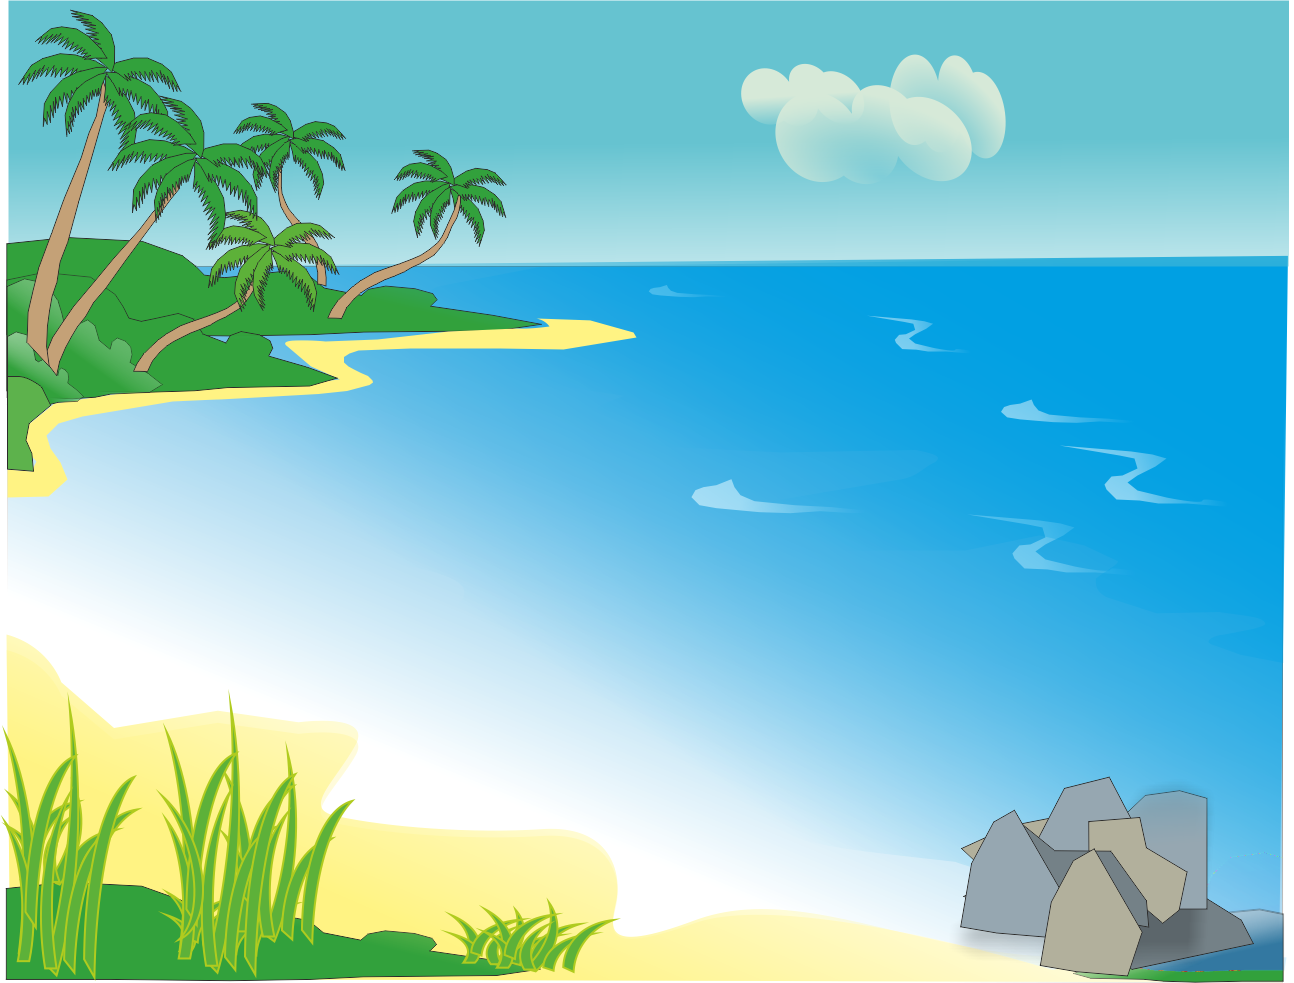
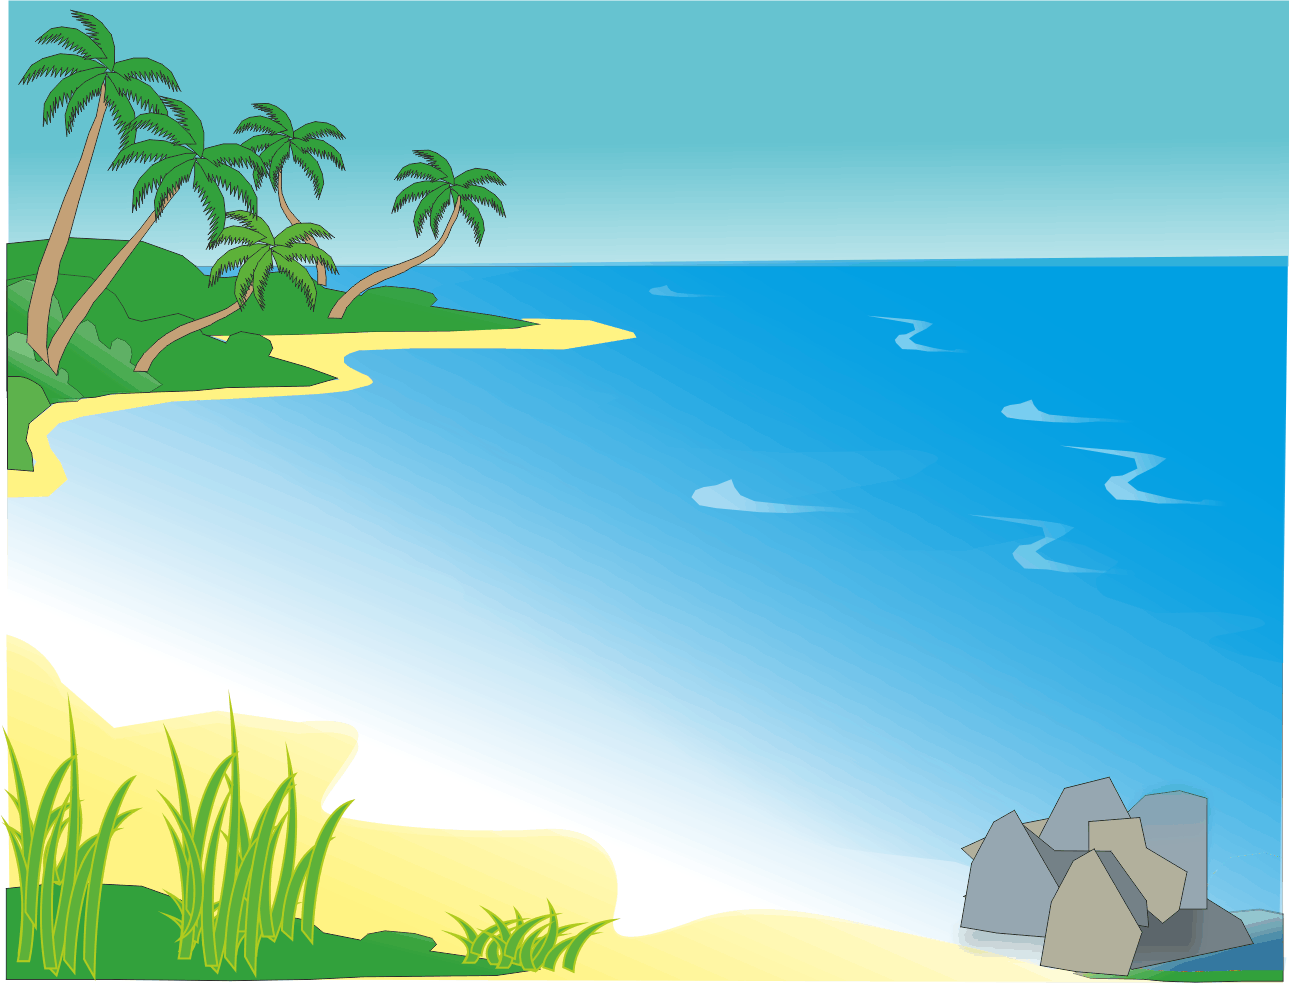
v14

Changed region(s): [[0.5564, 0.061, 0.8037, 0.1831], [0.1855, 0.3357, 0.34, 0.3662], [0.4019, 0.3052, 0.4328, 0.3357]]

diff --git a/js/ship.js b/js/ship.js
@@ -1,17 +1,26 @@
 var shipArr=[];
 
 $(document).ready(function(){
-    
+    for (var i = 0; i < 100; i++) {          
+      $("#shipanimatebig").animate({left: '905px', top:'225px', opacity: 0.95}, 1000, function(){});
+      $("#shipanimatebig").animate({left: '900px', top:'230px', opacity: 0.95}, 1000, function(){});
+      $("#shipanimatemiddle").animate({left: '1253px', top:'221px', opacity: 0.85}, 1000, function(){});
+      $("#shipanimatemiddle").animate({left: '1250px', top:'220px', opacity: 0.85}, 1000, function(){});
+      $("#shipanimatemin").animate({left: '1201px', top:'201px', opacity: 0.75}, 1000, function(){});
+      $("#shipanimatemin").animate({left: '1200px', top:'200px', opacity: 0.75}, 1000, function(){});
+    }
     var h2=$("h2");
     h2.animate({left: '100px'}, "slow");
     h2.animate({fontSize: '2em'}, "slow");
     var h1=$("h1");
     h1.animate({left: '100px'}, "slow");
     h1.animate({fontSize: '3em'}, "slow");
-    $("#start").click(function(){
-     
-        $("#first").hide(1000);//скриване на всичко от div с id=first
+    $("#start").click(function(){        
+        document.getElementById("myTable").style.cursor = "crosshair";
+        $("#cloud").fadeIn(3000);
+        $("#cloud").animate({left: '+850px'}, 100000, function(){});
 
+        $("#first").hide(1000);//скриване на всичко от div с id=first
         $("#second").fadeIn(3000);
         $("#myTable").fadeIn(3000);
         $("td").addClass("water");//на всички <td> се присвоява клас water

diff --git a/css/bship.css b/css/bship.css
@@ -13,6 +13,10 @@ p, div, button, h1, h2, h3, h4{
 p, div, button, h4{
   font-size: 2rem; 
 }
+h1,h2{
+  position: sticky;
+  z-index: 70;
+}
 
 h2{
   padding-top: 15px; 
@@ -65,6 +69,7 @@ td{
 #first{  
   /*background: blue;*/
   background: url('../img/gameship11.png') no-repeat center center;
+  z-index: -10;
 }
 #second{  
   /*background: blue;*/
@@ -80,6 +85,8 @@ td{
   padding: 35px;
   margin-left: 555px;
   margin-top: 50px;
+  position: sticky;
+  z-index: 70;
 }
 .text1{
   /*font-size:14px;
@@ -100,4 +107,36 @@ td{
   float: left;
   margin-left: 95rem;
   margin-top: 5rem;
+}
+
+#cloud{
+  position: absolute;
+  top: 10px;
+  left: 330px;
+  z-index: 5;
+  display:none;
+}
+#shipanimatebig, #shipanimatemiddle, #shipanimatemin{
+  position: absolute;  
+  z-index: 5;  
+}
+#shipanimatebig{  
+  top: 230px;
+  left: 900px;  
+}
+#shipanimatemiddle{  
+  top: 220px;
+  left: 1250px;  
+}
+#shipanimatemin{  
+  top: 200px;
+  left: 1200px;  
+}
+body{
+    -webkit-touch-callout: none;
+    -webkit-user-select: none;
+    -khtml-user-select: none;
+    -moz-user-select: none;
+    -ms-user-select: none;
+    user-select: none;
 }

diff --git a/proekt_bk.html b/proekt_bk.html
@@ -7,10 +7,14 @@
 </style>
 </head>
 <body>
+<img id="cloud" src="img/cloud.png" alt="cloud">
 <div id="first">
 <h2>Игра</h2>
 <h1>ПИРАТСКИ КОРАБИ</h1>
 <h4>тип морски шах</h4>
+<img id="shipanimatebig" src="img/shipbig.png" alt="shipbig">
+<img id="shipanimatemiddle" src="img/shipmiddle.png" alt="shipmiddle">
+<img id="shipanimatemin" src="img/shipmin.png" alt="shipmin">
 <div id="description">
 <p class="text1">Пирати искат да нападнат остров Папая. Тяхната флотилия се състой от три кораба. За да спасиш островитяните, ти трябва да обезвредиш корабите, като ги откриеш.</p>
 <button id="start">Start</button>
